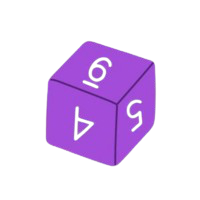
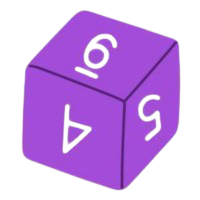
Inserimento di icone "dadi" nel menù della homepage, relativi media e CSS.

diff --git a/dicedungeons/src/main/resources/static/home/index.html b/dicedungeons/src/main/resources/static/home/index.html
@@ -30,13 +30,13 @@
                     <li>
                     <a href="#">Dadi</a> <!-- primo list-item, prima voce del menu -->
                     <ul> <!-- Lista annidata: voci del sotto-menu -->
-                    <li><a href="#" onclick = "rollD4('d4-result', this)"> <img src="media/dado_d4.png" alt="dado_d4"> <span id="d4-result" class="result"></span> </a></li>
-                    <li><a href="#" onclick = "rollD6('d6-result', this)">D6 <span id="d6-result" class="result"></span></a></li>
-                    <li><a href="#" onclick = "rollD8('d8-result', this)">D8 <span id="d8-result" class="result"></span> </a></li>
-                    <li><a href="#" onclick = "rollD10('d10-result', this)">D10 <span id="d10-result" class="result"></span> </a></li>
-                    <li><a href="#" onclick = "rollD12('d12-result', this)">D12  <span id="d12-result" class="result"></span> </a></li>
-                    <li><a href="#" onclick = "rollDice('d20-result', this)">D20 <span id="d20-result" class="result"></span> </a></li>
-                    <li><a href="#" onclick = "rollD100('d100-result', this)">D100 <span id="d100-result" class="result"></span> </a></li>
+                    <li><a href="#" onclick = "rollD4('d4-result', this)"> <img src="media/dado_d4.png" class="dice-roll-menu"> <span id="d4-result" class="result"></span> </a></li>
+                    <li><a href="#" onclick = "rollD6('d6-result', this)"> <img src="media/dado_d6.png" class="dice-roll-menu"> <span id="d6-result" class="result"></span></a></li>
+                    <li><a href="#" onclick = "rollD8('d8-result', this)"> <img src="media/dado_d8.png" class="dice-roll-menu"> <span id="d8-result" class="result"></span> </a></li>
+                    <li><a href="#" onclick = "rollD10('d10-result', this)"> <img src="media/dado_d10.png" class="dice-roll-menu"> <span id="d10-result" class="result"></span> </a></li>
+                    <li><a href="#" onclick = "rollD12('d12-result', this)"> <img src="media/dado_d12.png" class="dice-roll-menu"> <span id="d12-result" class="result"></span> </a></li>
+                    <li><a href="#" onclick = "rollDice('d20-result', this)"> <img src="media/dado_d20.png" class="dice-roll-menu"> <span id="d20-result" class="result"></span> </a></li>
+                    <li><a href="#" onclick = "rollD100('d100-result', this)"> <img src="media/dado_d100.png" class="dice-roll-menu"> <span id="d100-result" class="result"></span> </a></li>
                     </ul> <!-- Fine del sotto-menu -->
                     </li> <!-- Chiudo il list-item -->
                     <!--qui altri list-item -->

diff --git a/dicedungeons/src/main/resources/static/home/styles.css b/dicedungeons/src/main/resources/static/home/styles.css
@@ -117,6 +117,26 @@ body {
     transform: scale(1.1);
 }
 
+/********* PARTE DI CSS PER I BOTTONI NEL MENU' SOPRA ********/
+.dice-roll-menu{
+height: 50px;
+width: 50px;
+}
+
+/*PROVA PER FARE RUOTARE IL DADO ONCLICK*/
+.dice-roll-menu.active img {
+    transform: rotate(360deg);
+}
+
+/*PUNTA SUI RISULTATI DEL CLICK DELLE ICONE DEI DADI*/
+.result {
+    font-family: 'MedievalSharp', cursive;
+    
+    font-size: 12px;
+    text-align: center;
+    margin-top: 5px;
+}
+
 
 /* Mappa *//*
 #map-container {
